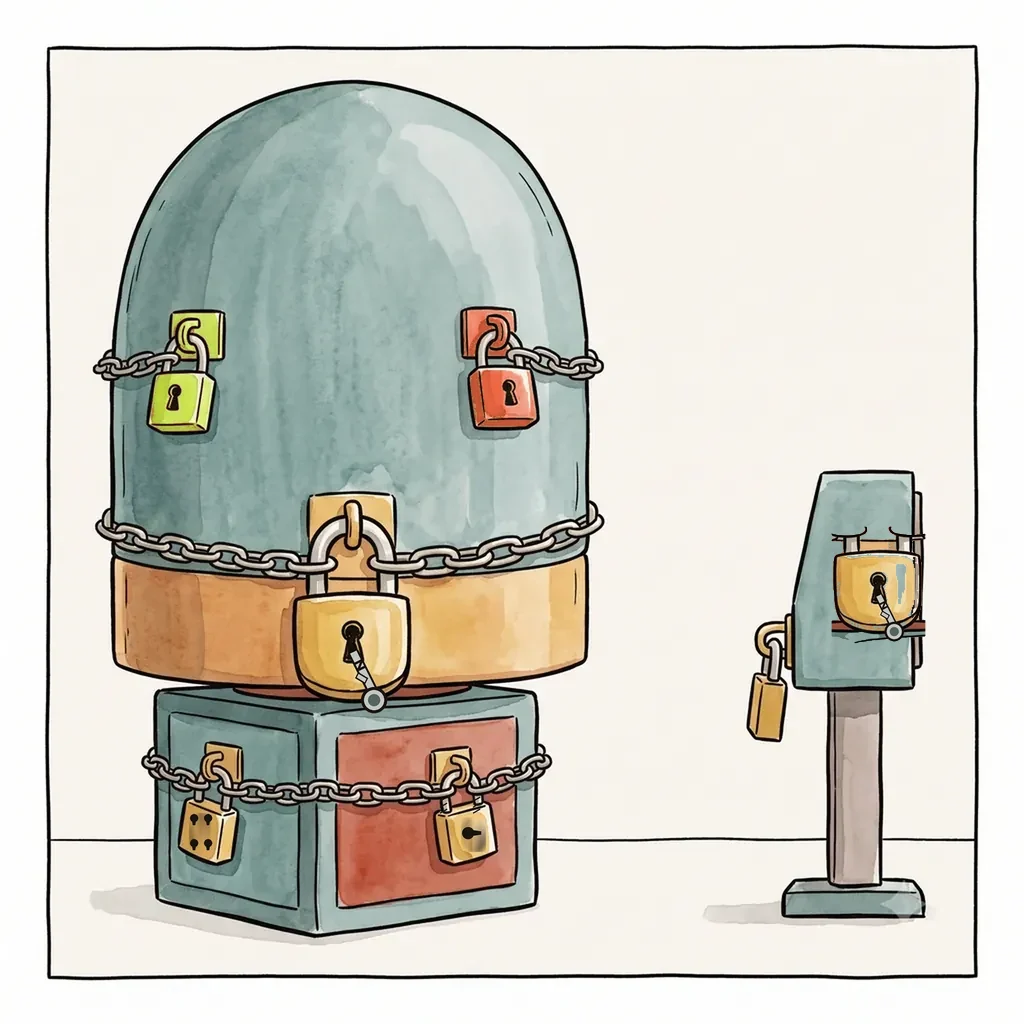
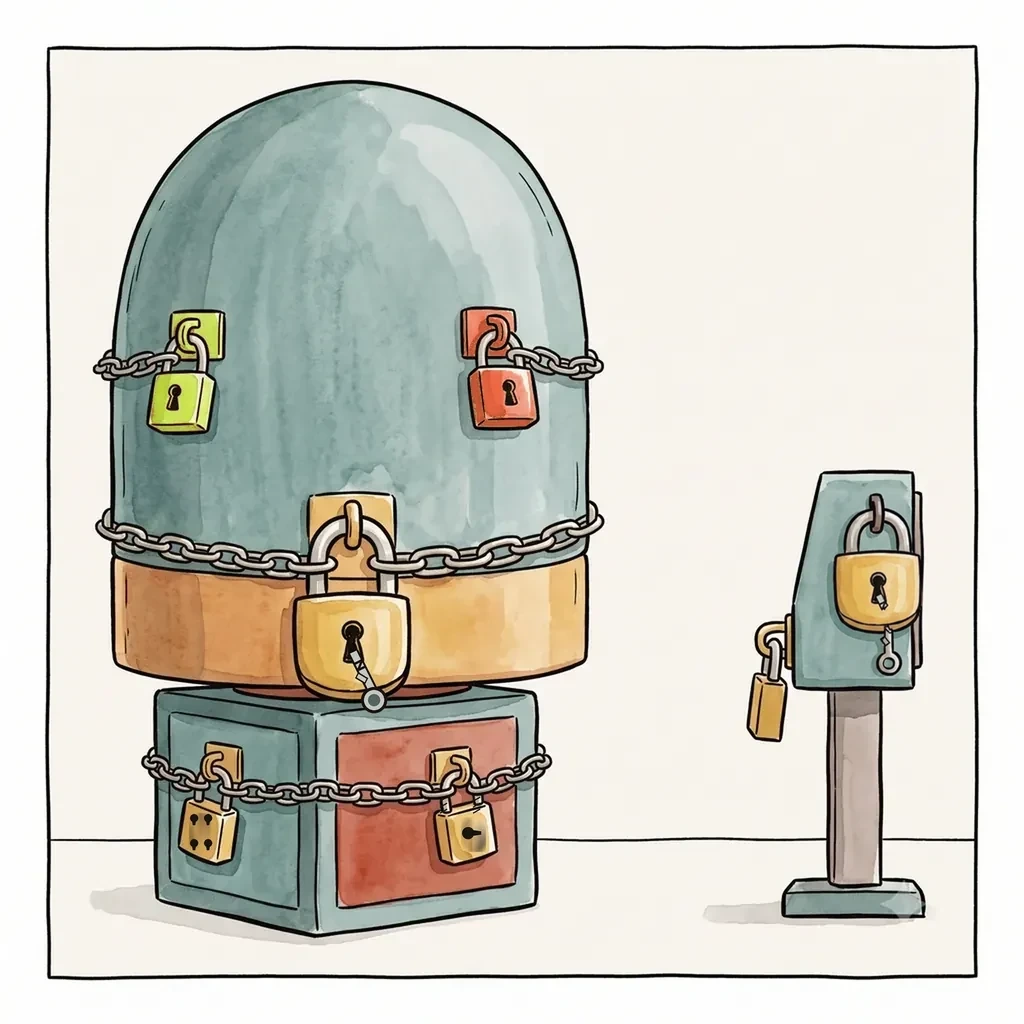
옛 손 보정 자국 — s10p02 진핵 기계의 푸로마이신 자물쇠(8/15 PIL 수술로 큰 자물쇠를 떠 붙인 것)가 고리 윗부분이 잘리고 얼룩·갈색 띠가 삐져나와 「똑같은 자물쇠」로 안 읽히던 것 → 온전한 금색 자물쇠(고리가 쇠고리에 걸림 · 부러진 열쇠) · 8/7–8/15 손 보정 판 20장 눈으로 다시 훑음(s36p03 · s10p02 말고 자국 없음)
Claude-Session: https://claude.ai/code/session_01WoYBm6rvmofApXiAiUhif2

Changed region(s): [[0.8125, 0.4688, 0.9062, 0.6562], [0.7812, 0.5625, 0.8125, 0.5938]]

diff --git a/tools/retouch/README.md b/tools/retouch/README.md
@@ -106,3 +106,4 @@
 | s01p03 | `crop_paste.py ORIG v1 OUT CROP=140,560,440,760 12 180,665,358,762` — 금속 양동이 예약(NAD⁺/NADH) 충돌의 마지막: 로타바이러스(설사) 갑판의 빈 금속 양동이 → 쓰러져 물을 쏟는 질그릇 항아리 + 갑판에 퍼진 물. 갑판 조각 3배 새 대화 v1. | s01p03_v1_1790834676093.png |
 | s04p01 | `crop_paste.py ORIG v2 OUT CROP=20,400,400,680 14 115,455,292,650` — 대기열 53(F2 해면): 노천 정수장 앞 청록 항아리 → 구멍 숭숭한 노란 부엌 스펀지(해면 = sponge) · 붓는 물은 옆구리 작은 구멍으로 스며들고 꼭대기 큰 구멍으로 솟음(유입공 → 출수공). 정수장 조각 2.5배 새 대화 v2(9/28 v1 판째 프롬프트는 보내지 않음). | s04p01_v2_1790835347268.png |
 | s19p02g | `crop_paste.py ORIG v1 OUT CROP=670,40,910,270 12 795,176,875,260` — 대기열 41b: 위 오른쪽 벽감의 붉은 알갱이 팔찌 → s19p02d 와 같은 아폽토솜(둥글게 둘러선 잿빛 말뚝 + 말뚝마다 붉은 알갱이 · 여덟으로 그려짐 — s19p02d 와 같은 수). 벽감 조각 3배 새 대화 v1. | s19p02g_v1_1790835347515.png |
+| s10p02 | `crop_paste.py ORIG v1 OUT CROP=640,420,960,760 12 720,450,935,700` — 옛 손 보정 자국 정리(8/15 「PIL 수술」: 큰 자물쇠를 0.75배로 떠 진핵 기계 얼굴에 얹은 것): 고리 윗부분이 잘려 눈썹 같은 곡선 둘만 남고 · 몸통 안 청록 얼룩 · 밑에 갈색 띠가 기계 오른쪽 끝까지 삐져나와 「똑같은 자물쇠」로 안 읽히던 것 → 온전한 금색 자물쇠(고리가 기계 얼굴의 작은 쇠고리에 걸림 · 부러진 열쇠 꽂힘 · 부러진 조각 매달림). 진핵 기계 조각 2.5배 새 대화 v1. ★ s36p03 수관 자국을 보고 8/7–8/15 손 보정 판(s01p05 · s04p05 · s04p06 · s05p02 · s05p03 · s11p04 · s12p01 · s12p05 · s14p02b · s34p05 · s34p06 · s36p01 · s38p02 · s38p03 · s39p03 · s45p05 · s45p06 · s46p01 · s46p03 · s48p05)을 눈으로 다시 훑음 — 이 둘 말고 붙임 자국 없음. | s10p02_v1_1790835793343.png |

diff --git a/tools/prompts/s10p02_진핵자물쇠_정리_v1.md b/tools/prompts/s10p02_진핵자물쇠_정리_v1.md
@@ -1,0 +1,5 @@
+# s10p02 — 8/15 PIL 수술 자국 정리: 진핵 기계 얼굴의 푸로마이신 자물쇠(큰 자물쇠를 0.75배로 떠 붙임)가 고리 윗부분이 잘려 눈썹 같은 곡선 둘만 남고 · 몸통 오른쪽에 청록 얼룩 · 밑에 갈색 띠가 기계 오른쪽 끝까지 삐져나옴 → 온전한 자물쇠 하나로 · v1 (2026-10-01)
+
+진핵 기계 조각(640..960, 420..760)을 2.5배로 키워 보냄. (그림이 개념을 나르는가 — 「똑같은 자물쇠가 진핵 기계에도」가 깨진 자물쇠로는 안 읽힘)
+
+Edit the attached illustration. On the front face of the small teal machine on a post there is a golden padlock with a broken key stuck in its keyhole, but the padlock looks damaged: the top of its shackle is cut off, there is a teal smudge inside the lock body, and a stray brown band runs under it past the machine's edge. Redraw just that padlock cleanly: one complete golden padlock with its full rounded steel shackle hooked through a small metal loop fixed on the machine's face, the same broken key still stuck in its keyhole with the broken-off piece dangling, the whole padlock sitting fully on the machine's face. Remove the brown band and the teal smudge. Keep the machine, its post, the other small golden padlock hanging on the machine's left side, the background, the colors and the style exactly as they are. No text.
